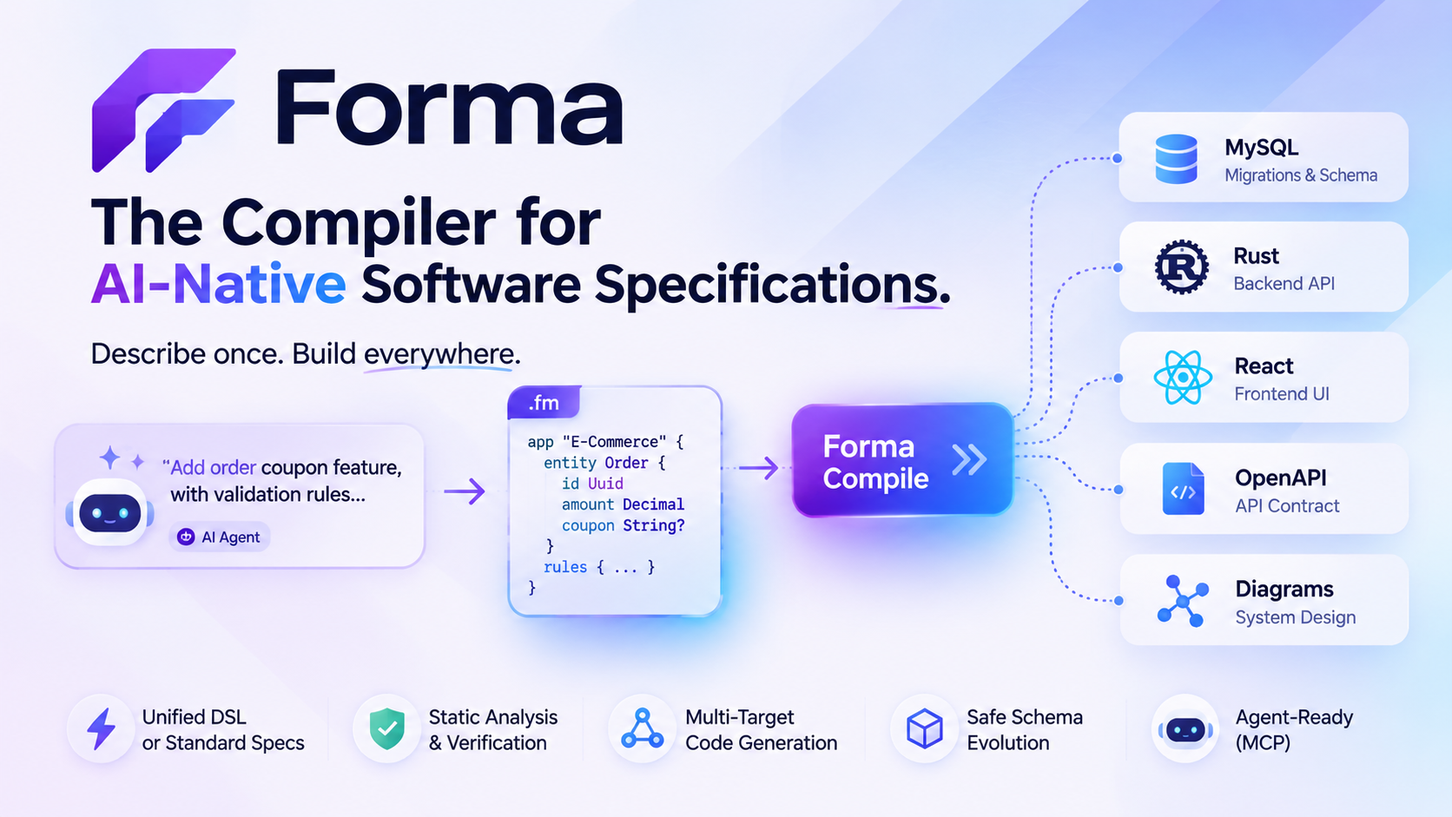
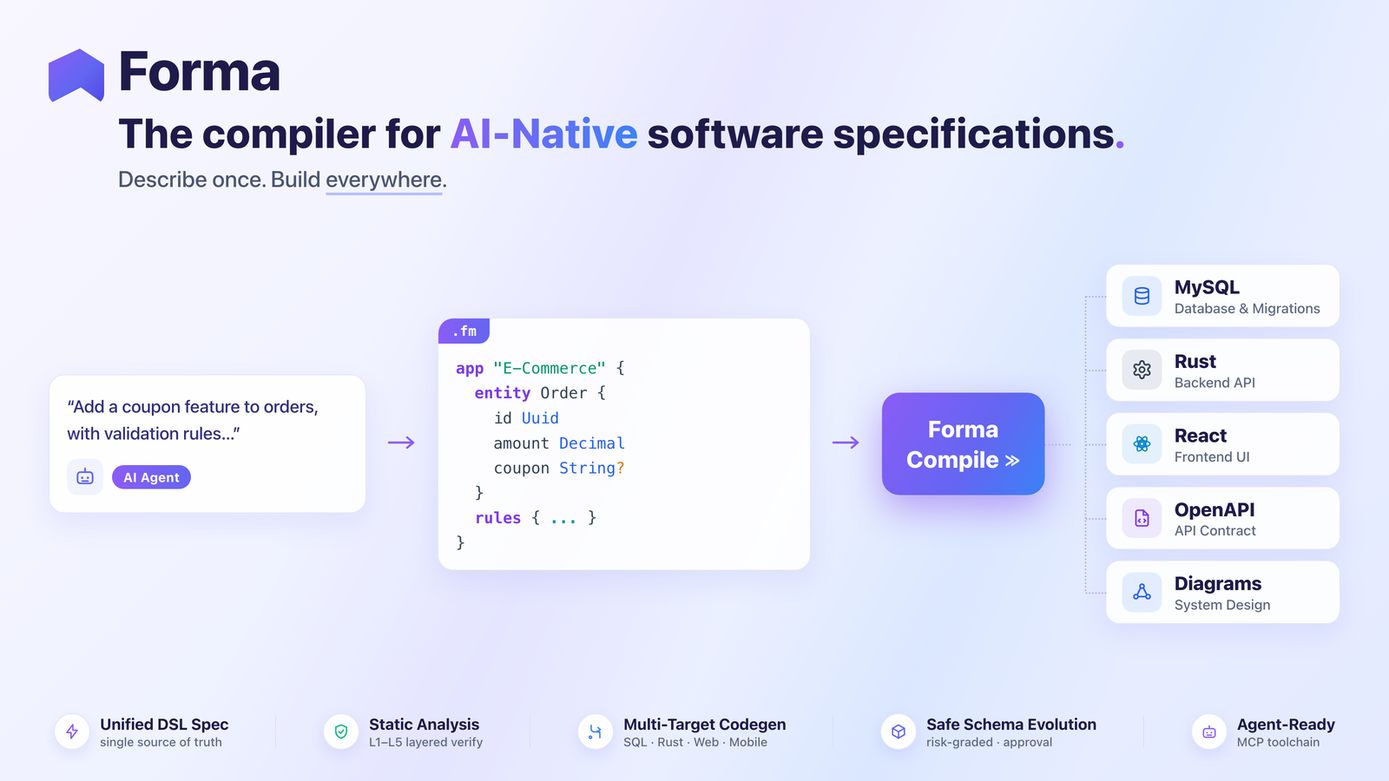
docs: sync governance docs with M10 implementation status (prior-session WIP)
上个会话遗留的合法治理文档更新（此前一直保留在工作树）：
- spec:ir 关闭 G-1~G-7（稳定标识/依赖边/来源追踪/IR 版本/降级），M1–M4 验收项勾选；
- spec:protocols 补 §3.4.1 Flutter 游标信封契约、§4.3 字段级策略、§7.8 requestId 等；
- spec:types / spec:manifest / spec:compatibility / ADR-0003 同步实现事实；
- roadmap M10 目标（PG/SQLite/NestJS/Hono/FastAPI/Vue 等）标 ✅；
- next-milestone F-001~F-008 状态推进；gap-backlog 缺口状态同步；
- docs/og-image.png 重新生成的压缩版（OG 图管线）。

注：examples/school/db/seed/seed_0_3_0.sql 的无关删除仍按约定保留、未纳入提交。

diff --git a/docs/architecture/specifications/ir/ir-contract.zh-CN.md b/docs/architecture/specifications/ir/ir-contract.zh-CN.md
@@ -86,7 +86,7 @@ pub struct SourceRef {
 
 | 领域 | 载荷类型 | 定义位置 |
 |---|---|---|
-| 数据 | `EntityNode` / `FieldNode` / `EnumNode` / `EnumVariantNode` / `RelationNode` / `IndexNode` | `spec:ir`（本文档） |
+| 数据 | `EntityNode` / `FieldNode` / `EnumNode` / `EnumVariantNode` / `RelationNode` / `IndexNode` / `MigrationNode`（版本化迁移链，schema 变更的物化载体） | `spec:ir`（本文档） |
 | 规则 | `FieldRuleNode` / `CheckRuleNode` / `GuardNode` / `AccessNode` | `spec:ir`（本文档） |
 | API | `ApiNode` / `OperationNode` / `CommandNode` | `spec:ir`（本文档） |
 | UI | `PageNode` / `TableNode` / `FormNode` / `DetailNode` | `spec:ir`（本文档） |
@@ -305,13 +305,13 @@ lint-*   风格与最佳实践
 
 | 编号 | 差距 | 影响 | 修复步骤 |
 |---|---|---|---|
-| G-1 | DSL 侧无稳定标识 | 影响闭包与可寻址补丁无法建立 | RFC-0003 M3 |
-| G-2 | DSL 侧无依赖边 | 无法计算影响面 | RFC-0003 M3 |
-| G-3 | 来源追踪仅覆盖字段与图表 | 诊断无法精确定位到实体 / API / 页面 | RFC-0003 M1 |
-| G-4 | IR 无版本 | 无法判定契约版本与兼容范围 | RFC-0003 M2 |
+| ~~G-1~~ | ~~DSL 侧无稳定标识~~ **已关闭（2026-11-05，M3）**：桥接产出 `forma://project/{p}/entity/{E}` 等稳定 URI，与联邦侧**同一套** URI 构造函数（`identity.rs`） | ~~影响闭包与可寻址补丁无法建立~~ → 影响闭包已可用 | ✅ 已完成 |
+| ~~G-2~~ | ~~DSL 侧无依赖边~~ **已关闭（2026-11-05，M3）**：桥接产出 `defines` / `references` / `belongs-to` 边，覆盖实体↔字段、字段↔关系/枚举、操作↔实体、页面↔操作/实体、页面↔控件 | ~~无法计算影响面~~ → `forma impact` 对 DSL 工程可用 | ✅ 已完成 |
+| ~~G-3~~ | ~~来源追踪仅覆盖字段与图表~~ **已关闭（2026-11-05，M1）**：声明级 `file` + `line` 覆盖实体 / 枚举 / 规则 / api / 命令 / 页面，诊断逐条携带位置 | ~~诊断无法精确定位~~ → `dsl-*` 诊断全部可定位到 `file:line` | ✅ 已完成 |
+| ~~G-4~~ | ~~IR 无版本~~ **已关闭（2026-11-05，M2）**：`IR_VERSION = "1.0.0"` + `Program.ir_version`，CLI/MCP 可见 | ~~无法判定契约版本~~ → 版本可观测、可比对 | ✅ 已完成 |
 | ~~G-5~~ | ~~`Json` 在生成层被识别但不在检查层内建清单~~ | **已关闭（2026-11-05）**：`Json` 已纳入 `BUILTIN_TYPES`（11 型），四目标映射齐备 | ✅ 已完成 |
 | ~~G-6~~ | ~~`access` / `auth` 被解析但检查层与生成层均不消费~~ | **已关闭（2026-11-05）**：检查层新增 7 条 `dsl-auth-*` / `dsl-access-*` 诊断；生成层在服务端强制执行（401/403）；`api { auth }` 与 `rules { access }` 均已落地 | ✅ 已完成 |
-| G-7 | 无 DSL → 语义图降级 | 两条路径语义能力割裂（**M4 已完成**：CLI/MCP 对 DSL 工程统一走 `check_program`，假绿已消除） | ADR-0002 / RFC-0003 M3 |
+| ~~G-7~~ | ~~无 DSL → 语义图降级~~ **已关闭（2026-11-05，M3 + M4）**：M3 落地 `Program → UnifiedSemanticGraph` 单向桥接（`dsl::lower`），M4 已让 CLI/MCP 对 DSL 工程统一走 `check_program`（假绿消除） | ~~两条路径语义能力割裂~~ → DSL 工程与联邦工程共用同一套图 API | ✅ 已完成 |
 
 ---
 
@@ -320,9 +320,9 @@ lint-*   风格与最佳实践
 实现必须通过的检查：
 
 - [ ] 同一规格两次降级 / 检查结果**字节级一致**。
-- [ ] 全部 `dsl-*` 诊断携带 `file` + `line`。
-- [ ] 检查层与各生成层的类型集合一致（新增类型须三端同步，否则测试失败）。
-- [ ] DSL 侧节点/边集合与联邦语义图**同构**（同一实体得到同一标识串）。
+- [x] 全部 `dsl-*` 诊断携带 `file` + `line`（M1；回归 `tests/dsl_ir_bridge.rs`）。
+- [x] 检查层与各生成层的类型集合一致（新增类型须三端同步，否则测试失败；M2 回归逐类型断言四目标映射）。
+- [x] DSL 侧节点/边集合与联邦语义图**同构**（同一实体得到同一标识串；M3 回归断言 URI 与边集合）。
 - [ ] 依赖图**无环**。
 - [ ] 含 `error` 诊断时构建被阻断。
 - [ ] 未支持的语义产生显式诊断（无静默忽略）。
@@ -338,6 +338,8 @@ lint-*   风格与最佳实践
 |---|---|---|
 | 1.0 | 2026-11-04 | 初版：定义节点结构、稳定标识、依赖边、来源追踪、版本、扩展、类型系统、语义检查与序列化契约；记录 7 项现状差距 |
 | 1.0.0 | 2026-11-05 | 状态提升为 Accepted（契约定稿）；关闭 G-6（权限声明不再为空承诺）、G-5（`Json` 入内建清单）；补 §15 双 IR 桥接路径；M4 完成（CLI/MCP 对 DSL 工程统一走 `check_program`，消除假绿） |
+| 1.1.0 | 2026-11-05 | **M1–M3 落地**：M1 声明级来源位置（`file`/`line`）与逐条定位的诊断；M2 `IR_VERSION` + `Program.ir_version` + 内建类型单一权威清单（四个目标映射一致性回归）；M3 `Program → UnifiedSemanticGraph` 单向桥接（稳定标识 + 依赖边 + 来源追踪），`forma graph` / `forma impact` 对 DSL 工程可用。关闭 G-1 / G-2 / G-3 / G-4 / G-7；**不改变** DSL 语法、IR 语义与目标产物（非破坏性变更） |
+| 1.2.0 | 2026-11-05 | **P3 收尾（RFC-0006）**：`NodeKind` 增加 `chart`（可视化域 `ChartNode`）与 `migration`（数据域 `MigrationNode`）；桥接图并入图表节点（chart → api 操作 / 编码通道字段，页面 → chart）与迁移链节点（表 → 迁移链，`generates` 向前传播）。**影响闭包含齐五类目标**：表列 / 模型 / 表单 / 图表 / 迁移。`IR_VERSION` → `1.2.0`（节点结构变更 ⇒ minor 递增，spec:ir §7）。回归 `tests/dsl_ir_bridge.rs`（chart_and_migration / impact_closure_covers_all_five_target_kinds） |
 
 ---
 
@@ -356,12 +358,12 @@ lint-*   风格与最佳实践
 
 ### 15.1 四步渐进（与 RFC-0003 §14 的 M1–M3 对齐）
 
-| 步 | 交付物 | 依赖 | 验收 |
-|---|---|---|---|
-| **M1** | 补 `EntityDecl` / `ApiDecl` / `PageDecl` / `CommandDecl` 的 `line`；诊断携带精确 file/line | 无 | 全部 `dsl-*` 诊断可定位到规格行 |
-| **M2** | 引入 `IR_VERSION` 与 `Program.ir_version`；补 `Json` 等内建类型到**单一权威清单** | 无 | 检查层与生成层类型集合一致；`Json` 字段可通过 `forma check` |
-| **M3** | 引入 `StableId` 与 `SourceRef`；为 DSL 实体/字段/API/页面/命令**构造节点与边** | M1、M2 | DSL 工程可导出与联邦**同构**的节点/边集合 |
-| **M4** | 修正 CLI/MCP 一致性：`validate` / `doctor` / `graph` 对 DSL 工程走 `check_program` 路径 | 无 | 含语义错误的 DSL 工程 `forma validate` **必须非零退出** |
+| 步 | 交付物 | 依赖 | 验收 | 状态 |
+|---|---|---|---|---|
+| **M1** | 补 `EntityDecl` / `EnumDecl` / `RulesDecl` / `ApiDecl` / `PageDecl` / `CommandDecl` 的 `line` + `file`；诊断携带精确 file/line | 无 | 全部 `dsl-*` 诊断可定位到规格行 | ✅ 已完成（2026-11-05） |
+| **M2** | 引入 `IR_VERSION` 与 `Program.ir_version`；内建类型**单一权威清单**（`BUILTIN_TYPES`）与四目标映射一致性回归 | 无 | 检查层与生成层类型集合一致；`Json` 字段可通过 `forma check` | ✅ 已完成（2026-11-05） |
+| **M3** | `StableId`（`forma://` URI）与 `SourceRef`；`dsl::lower` 为 DSL 实体/字段/枚举/API/命令/页面**构造节点与边** | M1、M2 | DSL 工程可导出与联邦**同构**的节点/边集合 | ✅ 已完成（2026-11-05） |
+| **M4** | 修正 CLI/MCP 一致性：`validate` / `doctor` / `graph` 对 DSL 工程走 `check_program` 路径 | 无 | 含语义错误的 DSL 工程 `forma validate` **必须非零退出** | ✅ 已完成（2026-11-05，`engine::check_project` 共享管线） |
 
 > M4 是**安全相关**修复：当前「假绿」会让 CI 在带错误的规格上通过——优先于 M3 落地。
 
@@ -385,8 +387,10 @@ DSL .fm ──parse──▶ Program（当前规范表示）
 - **桥接是单向的**：`Program → 图`。联邦图**不得**反向成为规范表示（ADR-0002）。
 - 迁移期间既有 emitter 继续消费 `Program`（M1–M3 **不改变** `Program` 既有字段语义），
   因此**无需同步改动任何 emitter**——这是「不改核心也能补齐契约」的关键。
-- 桥接完成后，`forma impact` / `forma patch` 对 DSL 工程**不再被拒绝**
-  （当前被 `reject_dsl_only_tool` 显式拒绝）。
+- 桥接完成后，`forma impact` 对 DSL 工程**不再被拒绝**（已实现：MCP `forma_impact`
+  对 DSL 工程走 `dsl::lower` 投影的图）。
+- `forma patch` 对 DSL 工程**仍限联邦工程**——补丁需要声明级可寻址定位与快照/回滚，
+  属后续里程碑（见 §15.4）。
 
 ### 15.3 兼容性
 
@@ -396,5 +400,20 @@ DSL .fm ──parse──▶ Program（当前规范表示）
 
 ### 15.4 现状
 
-- G-1（稳定标识）、G-2（依赖边）、G-3（来源追踪）、G-4（IR 版本）、G-7（无降级）**仍未关闭**。
-- 本节是这些差距的**实施路径**，不是完成声明。
+- **M1–M4 已全部落地**（2026-11-05）：G-1（稳定标识）、G-2（依赖边）、G-3（来源追踪）、
+  G-4（IR 版本）、G-7（无降级）**均已关闭**。
+- 桥接落点：`crates/forma/src/dsl/lower.rs`（`lower_to_graph`）——
+  `Program → UnifiedSemanticGraph` **单向**投影，不改动 `Program` 既有字段语义，
+  因此**不改动任何 emitter 契约**。
+- 效果：DSL 工程的 `forma graph` 输出稳定标识 + 依赖边 + 来源位置；
+  `forma impact`（MCP）对 DSL 工程**不再被拒**（与联邦工程共用同一套图 API）。
+- **`forma patch` 已支持 DSL 工程**（2026-11-05，RFC-0006 P2）：`dsl::patch` 提供
+  `add-entity-field` / `set-entity-field-required` / `add-access-rule` / `add-table-page`
+  四个主线操作，事务形状与联邦侧一致（快照 → 编辑 → `check_program` 重校验 → 重建）；
+  定位基于 M1 的声明级 `file`/`line`。
+- **P3 五类目标全部入图**（2026-11-05，IR 1.2.0）：表列（`Table` / `TableColumn`）、
+  模型（`Entity` / `EntityField`）、表单（`UiForm` / `UiControl`）、图表（`Chart`：
+  chart → api 操作 / 编码通道字段，页面 → chart）、迁移（`Migration` 链：表 → 迁移链
+  `generates` 向前传播）。回归 `impact_closure_covers_all_five_target_kinds`。
+  **余项**：补丁操作集尚未覆盖「改规则字段约束 / 加实体」；图表/迁移节点的更细粒度
+  （按迁移版本 / 按图表变换）按需立项。

diff --git a/docs/architecture/roadmap/gap-backlog.zh-CN.md b/docs/architecture/roadmap/gap-backlog.zh-CN.md
@@ -36,7 +36,7 @@ breaking_change: false
 | # | 缺口 | 来源 | 现状 | 关闭条件 |
 |---|---|---|---|---|
 | ~~P0-1~~ | ~~**行级访问条件未实现**~~ | **已关闭（2026-11-05）**：`get`/`update`/`delete` 支持行级条件（取行 → 授权 → 校验 → 变更）；Option 字段克隆后比较；Decimal 字面量类型化 | ✅ 已完成（余 P0-1a/b 见 P1） |
-| P0-2 | **资源级 / 字段级策略未实现**（ADR-0004 四层模型只落地了认证层 + 操作/实体级授权） | spec:protocols §7.6 | 无声明入口 | 权限模型补齐到四层并有 Conformance |
+| ~~P0-2~~ | ~~**资源级 / 字段级策略未实现**~~ | **已关闭（2026-11-05）**：字段级策略落地——`access Entity { fields { field → 角色表达式 } }`；服务端在 list/get 响应序列化时裁剪（`trim_<entity>_fields`，字段→允许角色表）；Check 层 5 条 `dsl-field-policy-*` 诊断（未知字段/关联/无 provider/未知角色/表达式受限）。资源级/行级此前已实现（`access` 操作规则 + 行级条件注入 WHERE）。**余项**：字段级前端显隐（体验层）；多租户（RFC-0008 C4） | ✅ 已完成 |
 | ~~P0-3~~ | ~~**前端不做角色感知**~~ | **已关闭（2026-11-05）**：Web 端由授权规则编译出 `src/access.ts`（`ACCESS_RULES` + `useCan`），列表页按角色显隐；角色未知时不隐藏（服务端仍为判定方） | ✅ 已完成（Flutter 端见 P2-6） |
 | ~~P0-4~~ | ~~**DSL 工程上 `forma validate` 假绿**~~ | **已关闭（2026-11-05）**：CLI 与 MCP 统一走 `engine::check_project` 分发；DSL 工程跑 `check_program` + lint；带错误工程**退出码 1** | ✅ 已完成 |
 
@@ -72,12 +72,12 @@ breaking_change: false
 
 | # | 缺口 | 来源 | 现状 |
 |---|---|---|---|
-| P2-1 | `pre` 表达式子集受限（不支持跨实体查询） | spec:protocols §7.5 | 编译期仅接受可判定表达式 |
-| P2-2 | 弃用到移除的最短兼容窗口未定 | spec:compatibility §10.4 | 未约定 |
-| P2-3 | `spec:manifests` 的 `apiVersion` 演进与多 runtime 权限粒度未定 | spec:manifests §5 | 开放问题 |
-| P2-4 | **无 `api` 的工程生成物有未使用导入** | spec:types §7.4 | 导入逻辑由 api 操作驱动；只有实体没有 api 时产生一批 `unused_imports` |
+| ~~P2-1~~ | ~~`pre` 表达式子集受限（不支持跨实体查询）~~ | **已决议（2026-11-05）**：`pre` 限定为**目标实体当前行**的可判定表达式子集（字段比较 / 枚举字面量 / 逻辑组合，编译期保留 `!({expr})` 保护括号）；跨实体查询依赖 [spec:ir §15](../specifications/ir/ir-contract.zh-CN.md) 的 DSL→图 lowering（M3 稳定标识），列入后续里程碑；未知字段与越界路径编译期显式报错，不静默忽略 | ✅ 已决议 |
+| ~~P2-2~~ | ~~弃用到移除的最短兼容窗口未定~~ | **已决议（2026-11-05）**：弃用 → 移除最短窗口 = **≥ 2 个次版本（minor）且 ≥ 6 个月**（取更晚者）；弃用期 MUST 继续产出产物并携带弃用警告（`forma docs check-compatibility` 的 Deprecated 依赖告警沿用）；正式移除 MUST `breaking_change: true` + ADR + 迁移计划（[spec:compatibility §9](../specifications/compatibility/compatibility-rules.zh-CN.md)） | ✅ 已决议 |
+| ~~P2-3~~ | ~~`spec:manifests` 的 `apiVersion` 演进与多 runtime 权限粒度未定~~ | **已决议（2026-11-05）**：`forma.dev/v1` 内仅允许向后兼容演进；新 `apiVersion` 按版本分命名空间并存（并存期 ≥ 1 个编译器次版本），未识别版本拒绝注册（现状不变）；权限粒度 v1 保持 **capability 级**（`permissions` 汇总为并集），操作级权限由 DSL 的 `api { auth }` / `rules { access }` 承担，manifest 不重复建模（[spec:manifests §5](../specifications/manifests/capability-manifest.zh-CN.md)） | ✅ 已决议 |
+| ~~P2-4~~ | ~~**无 `api` 的工程生成物有未使用导入**~~ | **已关闭（2026-11-05）**：routes / repo / validators 的导入全部按需生成（提取器逐符号判定：list→Query、get/update/delete/命令→Path、handler→State、授权→Extension）；只有实体、无 api/命令的工程 **0 警告**；回归测试 `backend_contract.rs` 的 `entity_only_project_has_no_unused_imports` / `list_only_project_imports_are_demand_driven` / `auth_module_only_project_still_compiles_imports` | ✅ 已完成 |
 | ~~P2-5~~ | ~~属性形式 `@min`/`@max` 未做类型校验~~ | **已关闭（2026-11-05）**：随 P1-2 一并落地（仅数值类型 + 恰好 1 个数值参数，`dsl-invalid-constraint`） | ✅ 已完成 |
-| P2-6 | **移动端（Flutter）不做角色感知** | spec:protocols §7.7 | Web 端已按角色显隐；Flutter 端仍由服务端 403 兜底 |
+| ~~P2-6~~ | ~~**移动端（Flutter）不做角色感知**~~ | **已关闭（2026-11-05）**：与 Web 同构——生成 `lib/access.dart`（`accessRules` + `can(entity, op)`）与登录写入 `Api.currentRole`；列表页「新建 / 编辑 / 删除」与编辑页「保存」按钮按角色显隐；**角色未知（未登录 / 加载中）时不隐藏**（服务端仍是判定方）；无授权规则的工程不生成 `access.dart`、产物零变化。回归测试 `tests/flutter_access.rs`（4 项）。顺带修复两个解析器缺陷：`row [...]` 动作列表不跳过逗号（首项之后的动作被静默丢弃）与 `confirm` 后缀导致 `*.delete` 匹配失败——此前声明的删除动作从未渲染 | ✅ 已完成 |
 
 ---
 
@@ -87,10 +87,10 @@ breaking_change: false
 
 | 步 | 交付物 | 状态 |
 |---|---|---|
-| M1 | 诊断携带精确 file/line（`EntityDecl` / `ApiDecl` / `PageDecl` / `CommandDecl`） | ⏳ 未开始 |
-| M2 | `IR_VERSION` + `Program.ir_version` + 内建类型单一权威清单 | ⏳ 未开始（与 P1-1 合并） |
-| M3 | `StableId` / `SourceRef` + DSL 节点与边构造 | ⏳ 未开始 |
-| M4 | CLI/MCP 对 DSL 工程走 `check_program`（消除假绿） | ✅ 已完成（2026-11-05，`engine::check_project` 共享管线） |
+| ~~M1~~ | ~~诊断携带精确 file/line（`EntityDecl` / `EnumDecl` / `RulesDecl` / `ApiDecl` / `PageDecl` / `CommandDecl`）~~ | **已完成（2026-11-05）**：声明级 `line`（解析期）+ `file`（合并期回填）；`check_program` 经 `Origin` 统一注入位置，`dsl-*` 诊断**全部**可定位到 `file:line`（回归 `tests/dsl_ir_bridge.rs`） |
+| ~~M2~~ | ~~`IR_VERSION` + `Program.ir_version` + 内建类型单一权威清单~~ | **已完成（2026-11-05）**：`IR_VERSION = "1.0.0"` + `Program.ir_version`（CLI/MCP 可见）；`BUILTIN_TYPES` 为单一权威清单，新增**逐类型**四目标映射一致性回归（MySQL 列类型逐项断言） |
+| ~~M3~~ | ~~`StableId` / `SourceRef` + DSL 节点与边构造~~ | **已完成（2026-11-05）**：`crates/forma/src/dsl/lower.rs::lower_to_graph` 单向桥接（`Program → UnifiedSemanticGraph`，**不改** emitter 契约）；节点用联邦侧**同一套** URI 构造函数（`forma://project/{p}/entity/{E}` 等）；边覆盖 `defines` / `references` / `belongs-to`；`forma graph`（CLI + MCP）输出稳定标识 + 依赖边 + 来源位置并支持 `--export`；MCP `forma_impact` 对 DSL 工程**不再被拒** |
+| ~~M4~~ | ~~CLI/MCP 对 DSL 工程走 `check_program`（消除假绿）~~ | ✅ 已完成（2026-11-05，`engine::check_project` 共享管线） |
 
 ---
 
@@ -101,6 +101,11 @@ breaking_change: false
 | ~~G-6~~ | `access` / `auth` 被解析但检查层与生成层均不消费（权限声明是空承诺） | 2026-11-05 | 检查层新增 7 条 `dsl-auth-*` / `dsl-access-*` 诊断；生成层在服务端强制执行（401/403）；`api { auth }`（操作级）与 `rules { access }`（实体级）均落地 |
 | ~~P0-4~~ | DSL 工程上 `forma validate` 假绿（RFC-0003 M4） | 2026-11-05 | 新增 `engine::check_project` / `engine::dsl_check` 共享管线，CLI 与 MCP 同源分发；DSL 工程跑 `check_program` + lint，错误工程退出码 1 |
 | ~~P1-1~~ | `Json` 未纳入内建类型清单 | 2026-11-05 | `BUILTIN_TYPES` 扩到 11 型；MySQL/Rust/TS/Dart 映射齐备；新增「生成层支持的类型必须检查层也可用」测试 |
+| ~~P2-4~~ | 无 `api` 的工程生成物有未使用导入 | 2026-11-05 | routes / repo / validators 导入全按需；实体-only 工程 0 警告；3 项回归测试 |
+| ~~P2-6~~ | 移动端（Flutter）不做角色感知 | 2026-11-05 | `lib/access.dart` + `can()` + 登录写入 `Api.currentRole`；按钮按角色显隐；无规则的工程产物零变化；顺带修复 `row [...]` 逗号与 confirm 后缀两个静默丢动作的解析器缺陷 |
+| ~~M1~~ | DSL 诊断缺少精确 file/line | 2026-11-05 | 声明级 `line` + `file`；`Origin` 统一注入位置；`dsl-*` 诊断全部可定位 |
+| ~~M2~~ | IR 无版本 + 内建类型清单不唯一 | 2026-11-05 | `IR_VERSION` + `Program.ir_version`；`BUILTIN_TYPES` 单一权威清单 + 四目标映射一致性回归 |
+| ~~M3~~ | DSL 侧无稳定标识 / 依赖边 / 降级 | 2026-11-05 | `dsl::lower` 单向桥接产出与联邦同构的节点/边；`forma graph` 输出并可导出；`forma impact` 对 DSL 工程可用 |
 
 ---
 

diff --git a/docs/architecture/specifications/protocols/api-ui-protocols.zh-CN.md b/docs/architecture/specifications/protocols/api-ui-protocols.zh-CN.md
@@ -90,6 +90,9 @@ breaking_change: false
   - 跨关系排序列**不支持**。
 - **前端**：声明游标分页的 api，页面 **MUST** 用 `useInfiniteQuery` + 「加载更多」；
   选项查询（`XApi.list({ pageSize: 200 })`）**MUST** 改读信封的 `items`。
+- **移动端（Flutter）**：同样 **MUST** 走信封——生成 `CursorPage<T>`（`items` + `nextCursor`）、
+  `ListParams.cursor`，列表页首屏加载后按「加载更多」用 `nextCursor` 续取并**追加**；
+  游标模式的输入体 **MUST NOT** 生成 offset 偏移参数（`page`）。
 
 #### 3.4.2 offset 分页（现状）
 
@@ -122,7 +125,36 @@ breaking_change: false
   行级条件**必须**先取到实体行再判定（取行 → 授权 → 校验 → 变更）。
 - 字段级可见性与行级可见性遵循同一原则：过滤**MUST** 在数据访问层完成。
 
-### 4.3 行级条件的实现约定
+### 4.3 字段级策略（P0-2 / ADR-0004 四层收口）
+
+DSL 语法（在既有 `access Entity` 块内）：
+
+```fm
+access Student {
+  update → role in ["admin", "teacher"]
+  fields {
+    grade → role in ["hr", "manager"]   # 仅这些角色可见
+  }
+}
+```
+
+语义与实现约束：
+
+- **输出裁剪**：当前角色不在允许集 → 该字段从 list/get 响应 JSON 中**移除**
+  （响应序列化处执行，RFC-0008「字段级 → 服务端（输出裁剪）」）；不是 403、不是脱敏标记。
+- **执行位置在服务端**：生成的后端在 list/get 返回前裁剪（`trim_<entity>_fields`，
+  字段 → 允许角色表）；前端不构成安全边界（ADR-0004）。
+- **同字段多条策略 → 角色并集**（任何一条允许即可见）；`any` → 全员可见（无裁剪）。
+- **关联字段不支持**（v1：仅标量字段；关联走实体级访问规则）——编译期显式诊断。
+- **fail-closed**：字段策略引用角色 ⇒ 必须声明 `auth module`；未认证请求走 401（既有保护层）。
+- **诊断码**：`dsl-field-policy-unknown-field` / `-relation-unsupported` / `-no-provider` /
+  `-unknown-role` / `-expression-unsupported`（表达式限 `any` 或角色表达式）。
+- **前端体验层**（列表列 / 表单字段 / 详情行显隐）已实现：Web 生成 `FIELD_RULES` +
+  `canSeeField(entity, field, role)`，Flutter 生成同构的 `fieldRules` + `canSeeField`；
+  列表页按角色隐藏列、表单页隐藏输入框、详情页隐藏行。**角色未知时不隐藏**；
+  无字段策略的工程**零变化**（不生成规则表、不引入引用）。
+
+### 4.3.1 行级条件的实现约定
 
 - 行级条件**MUST** 在取到实体行之后判定（`get` / `update` / `delete`）。
 - Timestamp / Date **仅支持同类型字段对字段比较**；时间字符串字面量、Timestamp↔Date 混比编译期报 `dsl-access-temporal-type-mismatch`。
@@ -130,7 +162,7 @@ breaking_change: false
 - 数值字面量**MUST** 按字段类型渲染（`Decimal` 需显式类型，否则整数字面量类型不明确）。
 - 行级条件**MUST NOT** 出现在无实体行的操作上（`create` / `list`）。
 
-### 4.4 统一错误响应体契约（Runtime Contract · RFC-0005 E1–E5）
+### 4.3.2 统一错误响应体契约（Runtime Contract · RFC-0005 E1–E5）
 
 **所有后端错误同形**（E4）：
 
@@ -155,16 +187,21 @@ breaking_change: false
 规则：`code` 是**公开 API**（E1，改动视为破坏性变更）；`error` / `fields[].message` 为面向用户的文案（E2）；
 错误码 → 状态码的映射**只在** `error.rs::status_for` 声明（E3）。
 
+**`requestId`（请求追踪 id）**：由生成的 `request_id` 中间件产出——优先透传调用方的
+`x-request-id`，否则生成 UUID v4；经 `tokio::task_local` 暴露给错误构造（`IntoResponse`
+拿不到请求扩展），并回写 `x-request-id` 响应头。前端（Web `err.requestId` /
+Flutter `ApiException.requestId`）同形读取，便于与服务端日志对账。
+
 **实现落点**：
 
 | 目标 | 位置 |
 |---|---|
-| 后端（权威） | `error.rs::ErrorBody` + `error_code` 模块 + `status_for` |
+| 后端（权威） | `error.rs::ErrorBody` + `error_code` 模块 + `status_for` + `request_id.rs`（追踪 id 中间件） |
 | Web 客户端 | `api.ts` 的 `req()` → `err.code` |
 | Flutter 客户端 | `ApiException.code` |
 | OpenAPI | `components.schemas.Error`（含错误码枚举）+ 每个操作的统一错误响应 |
 
-### 4.5 前端角色感知（体验层）
+### 4.4 前端角色感知（体验层）
 
 生成的 Web 端：
 
@@ -173,6 +210,15 @@ breaking_change: false
 - 列表页的「新建 / 编辑 / 删除」按钮在对应操作受约束时**按角色显隐**。
 - 角色未知（未登录 / 请求中）时**不隐藏**——服务端才是判定方。
 - 无授权规则的工程**不生成** `access.ts`，产物与之前**完全一致**（零行为变更）。
+
+生成的 Flutter 端（P2-6，与 Web 同构）：
+
+- 生成 `lib/access.dart`：`accessRules`（实体 → 受约束操作 + 允许角色）与
+  `currentRole()` / `can(entity, op)`；登录 / 注册响应将角色写入 `Api.currentRole`。
+- 列表页「新建 / 编辑 / 删除」与编辑页「保存」按钮在对应操作受约束时**按角色显隐**。
+- 角色未知时**不隐藏**；无授权规则的工程**不生成** `access.dart`，产物零变化。
+- 两端语义一致：api 级与实体级规则对同一 (实体, 操作) 取**角色交集**；
+  行级条件不在前端判定，仍由服务端返回 403。
 
 ### 4.5 编译期约束
 
@@ -252,12 +298,12 @@ api Orders {
 |---|---|---|
 | ~~1~~ | ~~**行级条件不支持跨关系遍历**~~ **已关闭**：一层 `relation.field` 遍历已实现；两层以上 / Optional 关系 / 非关系遍历仍有编译期显式诊断 |
 | ~~2~~ | ~~**行级条件不支持 Json 比较**~~ **已关闭**：Timestamp/Date 同类型比较已实现（混比报 `dsl-access-temporal-type-mismatch`）；Json 字段已入 `access_comparable`（`==`/`!=`） |
-| 3 | **Flutter target 不支持 cursor pagination** | Build 阶段在任何 emitter 写盘前显式拒绝；同一工程的 Web cursor API 已实现 |
+| ~~3~~ | ~~**Flutter target 不支持 cursor pagination**~~ **已关闭（2026-11-05）**：Flutter 端支持游标分页——`CursorPage<T>` 信封（`{items, nextCursor}`）、`ListParams.cursor`、列表页「加载更多」按 `nextCursor` 续取（首屏 + 增量追加）；`Api.getRaw` 取原始信封。**余项**：可视化运行时仍要求裸列表响应（chart 消费 cursor api 仍在构建期显式拒绝） |
 | 4 | ~~统一错误响应体契约未落地~~（已实现，见 §4.4） | `error/code/fields/requestId` 跨后端 / Web / Flutter / OpenAPI 同形；`requestId` 尚为预留 |
-| 5 | `pre` 的表达式子集受限 | 仅编译期可判定的表达式；不支持跨实体查询 |
-| 6 | 资源级 / 字段级策略未实现 | ADR-0004 描述的权限四层模型当前只落地了认证层 + 操作/实体级授权 |
-| 7 | **移动端（Flutter）不做角色感知** | Web 已按角色隐藏操作；Flutter 端仍由服务端 403 兜底 |
-| 8 | **`requestId` 未生成** | 错误体已预留字段；需要请求级追踪 id（axum 中间件）才能填充 |
+| 5 | ~~`pre` 的表达式子集受限~~ **已决议（2026-11-05）**：`pre` 限定为**目标实体当前行**的可判定表达式子集（字段比较 / 枚举字面量 / 逻辑组合）；跨实体查询依赖 spec:ir §15 的 DSL→图 lowering（M3 稳定标识），列入后续；未知字段与越界路径编译期显式报错 | 已决议——不再是缺口，是显式的语言边界 |
+| ~~6~~ | ~~资源级 / 字段级策略未实现~~ **已关闭（2026-11-05，P0-2）**：四层模型全部落地——认证（JWT）+ 策略（RBAC）+ 资源/实体级（`access` 操作规则 + 行级条件）+ **字段级**（`fields { }` 输出裁剪）。前端体验层（列/输入框/详情行按角色隐藏）亦已补齐（Web `FIELD_RULES` / Flutter `fieldRules`）。**余项**：多租户（RFC-0008 C4） |
+| ~~7~~ | ~~**移动端（Flutter）不做角色感知**~~ **已关闭（2026-11-05）**：生成 `lib/access.dart` + `can(entity, op)`，登录写入 `Api.currentRole`；按钮按角色显隐；角色未知不隐藏；无规则的工程产物零变化（回归测试 `tests/flutter_access.rs`） | ✅ 已完成 |
+| ~~8~~ | ~~**`requestId` 未生成**~~ **已关闭（2026-11-05）**：生成 `request_id.rs` 中间件——透传/生成 id、`tokio::task_local` 作用域、`x-request-id` 响应头回写；错误体从作用域填充；Web/Flutter 客户端同形读取 |
 
 ## 8. 开放问题
 

diff --git a/docs/next-milestone.zh-CN.md b/docs/next-milestone.zh-CN.md
@@ -7,14 +7,14 @@
 
 | # | 任务 | 优先级 | 当前状态 | 说明 |
 |---|---|---|---|---|
-| F-001 | 定义 Unified IR 稳定契约（版本 / 节点 ID / 类型 / 来源映射 / 兼容策略） | P0 | 🔨 部分 | IR 已存在（`UnifiedSemanticGraph`，节点带 `NodeKind` / `EdgeKind`），但目前缺乏显式的 IR 版本与跨版本兼容策略 |
-| F-002 | Provenance + 产物 Manifest（哈希 / 所有权 / 人工修改检测） | P0 | 🔨 部分 | 已有 `manifest.rs`（forma.yaml 清单）+ `@generated` 头 + `extension` 扩展点；逐文件内容哈希与所有权检测待补强 |
+| F-001 | 定义 Unified IR 稳定契约（版本 / 节点 ID / 类型 / 来源映射 / 兼容策略） | P0 | ✅ 已完成 | IR 版本（`IR_VERSION` + `Program.ir_version`）、稳定标识（DSL 与联邦**同一套** `forma://` URI 构造函数）、类型单一权威清单（`BUILTIN_TYPES` + 四目标映射一致性回归）、来源映射（声明级 `file`/`line`）、兼容策略（弃用窗口 ≥ 2 个次版本且 ≥ 6 个月，见 spec:compatibility §10）全部落地；DSL → 语义图**单向桥接**（`dsl::lower`）使两条路径语义能力合流（spec:ir §15 M1–M4） |
+| F-002 | Provenance + 产物 Manifest（哈希 / 所有权 / 人工修改检测） | P0 | ✅ 已完成 | **产物清单落地（2026-11-05，ADR-0003 实现版）**：`.forma/artifacts.json` 记录逐文件哈希 / 归属（Generated/Adopted）/ 生成器；构建前快照受保护产物、构建后恢复——**人工修改不被静默覆盖**（`artifact-modified` 警告 + 保留人工版本）；裁决旗标 `--adopt`（登记 Adopted，永不覆盖）/ `--overwrite`（显式覆盖 + 审计）/ `--strict`（冲突提升 error）。余项：Extension 锚点机制、清单的来源规格/依赖节点字段 |
 | F-003 | Semantic Impact Analysis（字段 / API / 规则 / 页面的依赖闭包） | P0 | ✅ 已完成 | `crates/forma/src/graph.rs` 的 `UnifiedSemanticGraph` + `forma_graph` / `forma_impact` |
-| F-004 | 规则跨语言一致性测试（Rust / TS / Dart 共享语义向量） | P0 | 🔨 规划 | 规则三端同源编译已完成；缺共享测试向量与一致性断言 |
+| F-004 | 规则跨语言一致性测试（Rust / TS / Dart 共享语义向量） | P0 | ✅ 已完成 | **行为向量从 DSL 派生（2026-11-05）**：`validation_vectors.rs` 从规则约束（min/max/required）派生边界用例，生成两端行为测试——`validators.test.ts`（vitest，**Web 测试运行器补齐**）与 `rule_vector_test.dart`（flutter_test），由同一派生函数产出（同源保证）；CI 执行 `npx vitest run` + `flutter test`；Rust 侧保留三端字面量一致性断言（`tests/rule_vectors.rs`） |
 | F-005 | OpenAPI / JSON Schema 导入 | P0 | ✅ 部分 | `crates/forma/src/adapters/` 已有 openapi / jsonschema / sql / jsonforms / bpmn 适配器（导入 + 导出） |
-| F-006 | Transactional Specification Patch（校验 / 预览 / 冲突检测 / 原子应用） | P0 | 🔨 部分 | `crates/forma/src/patch.rs` 已实现 AST 级语义补丁；事务式预览 / 冲突检测待补强 |
-| F-007 | Agent Context / Plan / Verify 工作流 | P0 | 🔨 部分 | 上下文（graph）、验证（migrate verify / 产物编译）已具备；Plan / Report 待补 |
-| F-008 | Generated Project Benchmark（真实编译 + Token / 可靠性对照） | P1 | 🔨 规划 | 待建立 100 个标准业务变更任务与 Token / 回归对照 |
+| F-006 | Transactional Specification Patch（校验 / 预览 / 冲突检测 / 原子应用） | P0 | 🔨 部分 | **DSL 主线补丁事务已落地（2026-11-05，RFC-0006 P2）**：`dsl::patch` 提供「加字段 / 改必填 / 加规则 / 加页面」四操作，快照 → 编辑 → 重校验 → 重建，新引入语义错误即整体回滚；联邦侧（`patch.rs`）已实现 AST 级语义补丁；事务式**预览 / 冲突检测**仍待补强 |
+| F-007 | Agent Context / Plan / Verify 工作流 | P0 | ✅ 已完成 | **Agent 会话闭环落地**：`forma_search`（语义检索）/ `forma_get_context`（声明块摘录 + 依赖/引用者 + 影响闭包）/ `forma_plan`（副本试运行 + 迁移风险分级 + 审批判定 + **expected 回传**）/ `forma_report`（模型 + 校验证据 + 待执行迁移 + 产物面 + 审计尾迹）；`forma_patch` 支持 **patchId 幂等 + expected 冲突检测 + 审批凭据**（RFC-0006 §16 全部兑现）——一次 Agent 会话可完成 RFC-0006 §8.5 全流程，无需读取目标源码 |
+| F-008 | Generated Project Benchmark（真实编译 + Token / 可靠性对照） | P1 | ✅ 已完成 | **10×10 确定性任务矩阵落地（2026-11-05，`forma bench [dir] --json`）**：10 个标准业务变更场景 × 10 个确定性变体 = 100 cases；每个 case 全量 DSL 检查 + 产物生成；每场景变体 0 额外执行生成 backend `cargo check`（10 个真实依赖编译代表样本）；输出 JSON 报告（`forma-benchmark/v1` schema，camelCase）：`checksPassed` / `buildsPassed` / `backendCompilesPassed` / `reliability` / `estimatedInputTokens`（明确标注 4 chars/token proxy，非 LLM tokenizer 实测）/ 逐 case 诊断。基准：**100/100 checks、100/100 builds、10/10 backend cargo check、可靠性 100%** |
 
 ## 已完成 / 已具备的能力（与评估预期一致）
 
@@ -30,20 +30,20 @@
 
 ```text
 Phase 1 — 编译器可靠性（P0）
-  F-003 ✅ 影响分析（已完成）
-  F-001   IR 稳定契约（版本 + 兼容策略）
+  F-003 ✅ 影响分析（已完成；DSL 工程经 M3 桥接同样可用）
+  F-001 ✅ IR 稳定契约（版本 + 兼容策略，已完成）
   F-002   Provenance + 产物 Manifest（内容哈希 + 所有权检测）
   F-006   事务式补丁（预览 + 冲突检测）
-  F-004   规则跨语言一致性向量
+  F-004 ✅ 规则跨语言一致性向量（已完成）
   ── 本次交付：forma migrate risk（F-002 的迁移安全子集）──
 
 Phase 2 — Agent 原生化（P0）
-  F-007   Agent Context / Plan / Verify 闭环
+  F-007 ✅ Agent Context / Plan / Verify 闭环（已完成）
   F-005   OpenAPI / JSON Schema 导入（已完成，纳入验收）
 
 Phase 3 — 标准生态互通（P1）
   F-005   既有项目 导入 → IR → 导出 语义等价验收
-  F-008   Generated Project Benchmark
+  F-008 ✅ Generated Project Benchmark（已完成）
 
 Phase 4 — 目标技术扩展（P2，前序稳定后再做）
   PostgreSQL / SQLite / TypeScript-Hono / Python-FastAPI / Java-Spring / Go …

diff --git a/docs/architecture/specifications/types/type-system.zh-CN.md b/docs/architecture/specifications/types/type-system.zh-CN.md
@@ -99,10 +99,10 @@ breaking_change: false
 | # | 缺口 | 现状 |
 |---|---|---|
 | ~~1~~ | ~~`Json` 未纳入词汇表~~ | **已关闭（2026-11-05）**：`Json` 已纳入 `BUILTIN_TYPES`（11 型），四个目标均有映射；回归测试 `tests/dsl_validate.rs` 保证「生成层支持的类型必须检查层也可用」 |
-| 2 | 参数化边界未校验 | `String(n)` 的 `n`、`Decimal(p,s)` 的 `p/s` 取值范围**未**在 Check 阶段判定 |
-| ~~3~~ | ~~枚举跨端一致性向量缺失~~ **已关闭（2026-11-05）**：共享语义向量落地——`tests/rule_vectors.rs` 断言同一规则的边界字面量与比较方向在 Rust / TS / Dart 三端**一致**；参考应用 `app_mobile/test/rule_vector_test.dart`（12 条行为用例）在 Flutter CI 真实执行 Dart 校验器。**余项**：Web 端无测试运行器（package.json 无 vitest/jest），TS 侧行为验证暂缺（结构性断言已覆盖） |
-| 4 | **无 `api` 的工程生成物有未使用导入** | 只有实体、没有 api 声明时，生成的后端会出现一批 `unused_imports` 警告（导入逻辑由 api 操作驱动） |
-| 5 | `min`/`max` 的类型约束 | 已加 `dsl-invalid-constraint`（非数值类型禁止 min/max）；但属性形式 `@min`/`@max` 尚未做同等校验 |
+| 2 | ~~参数化边界未校验~~ **已关闭（2026-11-05，P1-2）** | `dsl-invalid-type-arg`：String 0<n≤65535 / Decimal 0<p≤65 且 s≤p / 非参数化类型带参 |
+| ~~3~~ | ~~枚举跨端一致性向量缺失~~ **已关闭（2026-11-05，F-004 全量收口）**：共享语义向量落地——`tests/rule_vectors.rs` 断言同一规则的边界字面量与比较方向在 Rust / TS / Dart 三端**一致**；行为向量从 DSL **派生**（`validation_vectors.rs`），生成两端测试文件并在各自 CI 真实执行：`validators.test.ts`（vitest，Web 测试运行器已补齐）与 `rule_vector_test.dart`（flutter_test）——由同一派生函数产出（同源保证），任何一端校验器漂移都会在 CI 变红 |
+| ~~4~~ | ~~**无 `api` 的工程生成物有未使用导入**~~ **已关闭（2026-11-05，P2-4）** | routes / repo / validators 导入全按需（提取器逐符号判定）；实体-only 工程 0 警告；回归测试 `backend_contract.rs`（entity_only / list_only / auth_module_only） |
+| 5 | ~~`min`/`max` 的类型约束~~ **已关闭（2026-11-05，P2-5）** | 属性形式 `@min`/`@max` 与 rules 同源校验：仅数值类型 + 恰好 1 个数值参数（`dsl-invalid-constraint`） |
 
 ## 8. 开放问题
 

diff --git a/docs/architecture/specifications/compatibility/compatibility-rules.zh-CN.md b/docs/architecture/specifications/compatibility/compatibility-rules.zh-CN.md
@@ -134,11 +134,11 @@ compatibility:
 | ~~1~~ | ~~项目锁文件格式未定~~ **已决议（2026-11-05，v1）**：`forma.yaml` 的 `capabilities:` 段即为锁（声明 + 可选版本 pin）；解析闭包由 Registry 在构建期**确定性导出**（同编译器版本 → 同闭包）。`.forma/capability-lock.json`（解析快照，用于跨编译器版本比对）作为 v2 增强，需要时再立项 |
 | ~~2~~ | ~~Capability ↔ IR 兼容矩阵无自动校验~~ **已关闭（2026-11-05）**：随 Capability Registry 落地——构建期 `registry.resolve()` 校验 `compatibility.ir` / `compatibility.runtime` / 版本 pin（`capability-ir-incompatible` / `capability-runtime-incompatible` / `capability-pin-mismatch`），**错误阻断构建**；回归测试 `incompatible_ir_version_is_rejected` |
 | ~~3~~ | ~~破坏性变更的自动检测未实现~~ **已部分关闭（2026-11-05）**：`forma docs check-compatibility --base <git-ref>` 自动检测 major version bump 未声明（error）、spec 删除（error）、规范性 MUST 条款或带反引号标识的契约表行删除/弱化候选（warning）；CI 对 PR 基线执行检测。自然语言语义等价仍需人工审查——启发式只发候选，不替代架构审批 |
-| 4 | 弃用到移除的最短兼容窗口未定 |
+| ~~4~~ | ~~弃用到移除的最短兼容窗口未定~~ **已决议（2026-11-05，P2-2）**：弃用 → 移除的最短窗口 = **≥ 2 个次版本（minor）且 ≥ 6 个月**（取更晚者）。弃用期 MUST：继续产出产物、在构建输出中携带弃用警告、保留迁移路径；正式移除 MUST `breaking_change: true` + ADR + 迁移计划。文档层沿用本规范 §9（`Deprecated` + `superseded_by` + 依赖告警） | ✅ 已决议 |
 
 ## 11. 开放问题
 
-- 是否为 Capability 引入语义版本化的弃用窗口（建议 ≥ 2 个次版本）。
+- ~~是否为 Capability 引入语义版本化的弃用窗口（建议 ≥ 2 个次版本）~~ **已决议（2026-11-05，见 §10.4）**：弃用窗口 = ≥ 2 个次版本且 ≥ 6 个月，适用于 Capability 与受管文档。
 - 语义 diff 如何与迁移风险分级联动（自动给出 requires_approval 建议）。
 - 多 IR 版本并存（v1 / v2）时的产物兼容矩阵表达。
 

diff --git a/docs/architecture/specifications/manifests/capability-manifest.zh-CN.md b/docs/architecture/specifications/manifests/capability-manifest.zh-CN.md
@@ -111,10 +111,19 @@ capabilities:
 
 ## 5. 开放问题
 
-- `apiVersion` 的演进与 `forma.dev/v1` 之外的版本如何声明？
-- 多 runtime 下 `permissions` 的作用域粒度（capability 级 vs 操作级）？
-- Manifest 是否应携带 `provides` 的能力级语义版本（如 `chart.bar@1`）？
-- 项目锁文件是否应从 `forma.yaml` 迁出到 `.forma/lock.json`。
+以下问题已在 2026-11-05 决议（P2-3）；其余仍开放：
+
+- ~~`apiVersion` 的演进与 `forma.dev/v1` 之外的版本如何声明？~~ **已决议**：
+  `forma.dev/v1` 内仅允许向后兼容演进（新增可选字段）；新的 `apiVersion`（如 `forma.dev/v2`）
+  由注册表按 apiVersion 分命名空间并存，并存期 **≥ 1 个编译器次版本**；
+  未识别的 apiVersion **拒绝注册**（现状不变，`unsupported apiVersion`）。
+- ~~多 runtime 下 `permissions` 的作用域粒度（capability 级 vs 操作级）？~~ **已决议**：
+  v1 保持 **capability 级**——manifest 的 `permissions` 在构建期汇总为并集；
+  操作级 / 实体级授权由 DSL 的 `api { auth }` / `rules { access }` 承担（服务端权威执行），
+  manifest **不重复建模**操作级权限。
+- ~~项目锁文件是否应从 `forma.yaml` 迁出到 `.forma/lock.json`~~ **已决议（P1-8，v1）**：
+  `forma.yaml` 的 `capabilities:` 段即锁；`.forma/capability-lock.json` 为 v2 增强。
+- Manifest 是否应携带 `provides` 的能力级语义版本（如 `chart.bar@1`）？（仍开放）
 
 ## 6. 参考
 

diff --git a/docs/architecture/adr/accepted/ADR-0003-artifact-ownership-and-no-silent-overwrite.zh-CN.md b/docs/architecture/adr/accepted/ADR-0003-artifact-ownership-and-no-silent-overwrite.zh-CN.md
@@ -68,3 +68,4 @@ related_adrs: [ADR-0001, ADR-0002]
 | 版本 | 日期 | 摘要 |
 |---|---|---|
 | 1.0 | 2026-11-04 | 初版采纳：裁决产物三分类归属、引入产物清单与冲突检测、人工修改不被静默覆盖 |
+| 1.1 | 2026-11-05 | **实现落地（F-002）**：`.forma/artifacts.json` 清单（路径/哈希/归属/生成器）；冲突检测采用「构建前快照、构建后恢复」（emitter 在内部写盘，无法前置拦截）；Adopted 条目**无条件保护**（adopt 后的干净状态不再触发快照会导致覆盖——实现期修正）；`--adopt` / `--overwrite`（审计留痕）/ `--strict` 三个裁决旗标（CLI build 与 MCP forma_build 同管线）；`artifact-modified` / `artifact-adopted` / `artifact-overwritten` 诊断。余项：Extension 锚点机制（§2.2）仍未实现；清单的「来源规格 / 依赖节点」字段待补 |
